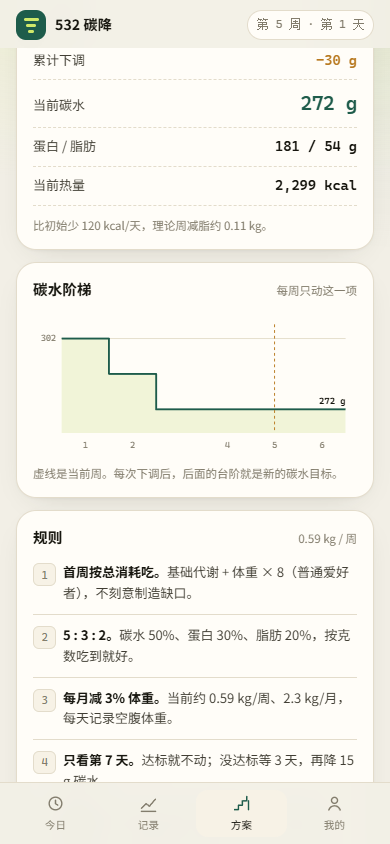
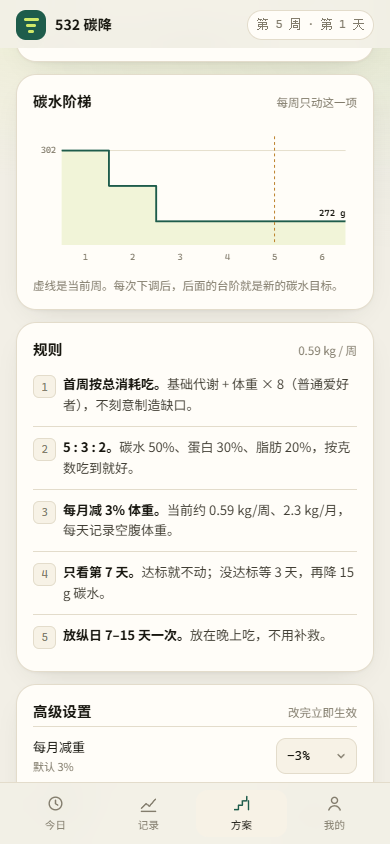
今日页显示已摄入热量与还剩余额；修复方案页高级设置卡被截断

Changed region(s): [[0.0308, 0.0616, 0.9538, 0.7085], [0.0308, 0.7393, 0.9538, 0.9242], [0.0923, 0.6777, 0.1231, 0.7085]]

diff --git a/assets/app.js b/assets/app.js
@@ -217,6 +217,8 @@
     var last = C.latestWeight(state);
     var lastDays = last ? C.diffDaysKeys(last.date, todayKey) : null;
     var leftCarb = Math.max(0, Math.round(t.carb - tot.carb));
+    var eatenPct = t.kcal > 0 ? Math.min(100, (tot.kcal / t.kcal) * 100) : 0;
+    var overKcal = tot.kcal - t.kcal;
 
     var parts = [];
 
@@ -228,6 +230,13 @@
         '</div>' +
         '<p class="hero-label">今日摄入目标</p>' +
         '<div class="hero-num"><b>' + n0(t.kcal) + '</b><span>kcal</span></div>' +
+        '<div class="hero-intake' + (overKcal > 0.5 ? ' is-over' : '') + '">' +
+          '<div class="hero-track"><i style="width:' + eatenPct.toFixed(1) + '%"></i></div>' +
+          '<div class="hero-intake-text">' +
+            '<span>已摄入 <b>' + n0(tot.kcal) + '</b> kcal</span>' +
+            '<span>' + (overKcal > 0.5 ? '超出 <b>' + n0(overKcal) + '</b> kcal' : '还可吃 <b>' + n0(-overKcal) + '</b> kcal') + '</span>' +
+          '</div>' +
+        '</div>' +
         '<div class="hero-macros">' +
           '<div><span>碳水' + (t.cut ? ' −' + t.cut + 'g' : '') + '</span><b>' + t.carb + '</b><i>g</i></div>' +
           '<div><span>蛋白</span><b>' + t.protein + '</b><i>g</i></div>' +
@@ -252,7 +261,7 @@
 
     parts.push(
       '<section class="card">' +
-        '<div class="card-head"><h2>今日摄入</h2><span class="muted small">' + (entries.length ? entries.length + ' 项' : '还没记录') + '</span></div>' +
+        '<div class="card-head"><h2>今日摄入</h2><span class="muted small">' + (entries.length ? entries.length + ' 项 · ' + n0(tot.kcal) + ' kcal' : '还没记录') + '</span></div>' +
         macroRow('碳水', 'm-carb', tot.carb, t.carb) +
         macroRow('蛋白', 'm-pro', tot.protein, t.protein) +
         macroRow('脂肪', 'm-fat', tot.fat, t.fat) +
@@ -600,7 +609,7 @@
             }).join('') +
           '</select>' +
         '</div>' +
-        '<div class="setting stack">' +
+        '<div class="setting stacked">' +
           '<div class="label">手动总消耗<small>有手表 / 体测数据时填，留空用公式</small></div>' +
           '<form class="mini-form" data-form="override">' +
             '<label class="input-wrap"><input name="kcal" type="number" inputmode="numeric" min="800" max="6000" step="10" value="' + (plan.overrideKcal || '') + '" placeholder="' + plan.tdee + '" aria-label="手动总消耗"><span class="suffix">kcal</span></label>' +
@@ -657,8 +666,9 @@
     var nowX = (L + dx * (nowWeek - 1) + dx / 2).toFixed(1);
     svg += '<line class="now-line" x1="' + nowX + '" y1="' + T + '" x2="' + nowX + '" y2="' + (H - B) + '"/>';
 
+    var showAll = totalWeeks <= 8;
     for (var k = 0; k < totalWeeks; k++) {
-      if (k === 0 || k === nowWeek - 1 || (k + 1) % 2 === 0) {
+      if (showAll || k === 0 || k === nowWeek - 1 || (k + 1) % 2 === 0) {
         svg += '<text x="' + (L + dx * k + dx / 2).toFixed(1) + '" y="' + (H - 6) + '" text-anchor="middle">' + (k + 1) + '</text>';
       }
     }

diff --git a/assets/app.css b/assets/app.css
@@ -501,6 +501,15 @@ input, select { font: inherit; color: inherit; }
 }
 .hero-num span { font-size: 12px; opacity: 0.7; }
 
+.hero-intake { margin-top: 10px; position: relative; z-index: 1; }
+.hero-track { height: 6px; border-radius: 99px; background: rgba(255, 255, 255, 0.18); overflow: hidden; }
+.hero-track i { display: block; height: 100%; border-radius: 99px; background: var(--lime); transition: width 0.3s ease; }
+.hero-intake-text { display: flex; justify-content: space-between; gap: 10px; margin-top: 7px; font-size: 11.5px; opacity: 0.86; }
+.hero-intake-text b { font-family: var(--mono); font-weight: 600; }
+.hero-intake.is-over .hero-track i { background: #F0B65A; }
+.hero-intake.is-over .hero-intake-text { color: #FFD79A; }
+.hero-intake.is-over .hero-intake-text b { color: #FFD79A; }
+
 .hero-macros {
   display: grid;
   grid-template-columns: repeat(3, 1fr);
@@ -794,10 +803,10 @@ input, select { font: inherit; color: inherit; }
 .setting:first-of-type { border-top: 0; margin-top: 4px; }
 .setting .label { display: flex; flex-direction: column; gap: 1px; font-size: 13px; }
 .setting .label small { font-size: 11px; color: var(--muted); }
-.setting.stack { display: block; }
-.setting.stack .label { margin-bottom: 8px; }
-.setting.stack .mini-form { display: flex; gap: 8px; align-items: center; }
-.setting.stack .mini-form .input-wrap { flex: 1; min-width: 0; }
+.setting.stacked { display: block; }
+.setting.stacked .label { margin-bottom: 8px; }
+.setting.stacked .mini-form { display: flex; gap: 8px; align-items: center; }
+.setting.stacked .mini-form .input-wrap { flex: 1; min-width: 0; }
 
 .select {
   height: 36px;

diff --git a/sw.js b/sw.js
@@ -2,14 +2,17 @@
  * 目标：离线也能记录；发版时更新能自然生效。
  * - 导航请求：网络优先，失败回落到缓存的 index.html
  * - 静态资源：缓存优先 + 后台更新（stale-while-revalidate）
+ *
+ * 发版：把下面 V 加 1，并同步改 index.html 里三处 ?v=（app.css / core.js / app.js）。
  */
-var CACHE = 'carb532-v5';
+var V = '7';
+var CACHE = 'carb532-v' + V;
 var SHELL = [
   './',
   './index.html',
-  './assets/app.css',
-  './assets/app.js',
-  './assets/core.js',
+  './assets/app.css?v=' + V,
+  './assets/app.js?v=' + V,
+  './assets/core.js?v=' + V,
   './manifest.webmanifest',
   './assets/icons/favicon-32.png',
   './assets/icons/icon-192.png',

diff --git a/index.html b/index.html
@@ -16,7 +16,7 @@
 <meta name="mobile-web-app-capable" content="yes">
 <meta name="apple-mobile-web-app-status-bar-style" content="default">
 <meta name="apple-mobile-web-app-title" content="532 碳降">
-<link rel="stylesheet" href="assets/app.css">
+<link rel="stylesheet" href="assets/app.css?v=7">
 </head>
 <body>
 <div class="page">
@@ -173,7 +173,7 @@
 
 <noscript><p class="noscript">这个应用需要开启 JavaScript 才能计算方案。</p></noscript>
 
-<script src="assets/core.js"></script>
-<script src="assets/app.js"></script>
+<script src="assets/core.js?v=7"></script>
+<script src="assets/app.js?v=7"></script>
 </body>
 </html>

diff --git a/README.md b/README.md
@@ -43,7 +43,7 @@
 532/
 ├─ index.html              单页入口（首屏设置 + 主框架）
 ├─ manifest.webmanifest    PWA 清单
-├─ sw.js                   离线缓存（改静态资源后把 CACHE 版本号 +1）
+├─ sw.js                   离线缓存（发版时把 V 加 1，见下方「改完代码发版」）
 ├─ assets/
 │  ├─ core.js              纯逻辑（UMD，无 DOM）：计算、校验、周结算、调碳
 │  ├─ app.js               UI 与本地存储
@@ -101,6 +101,8 @@ git push -u origin main
 **自己的服务器**：把目录丢进任意静态目录即可（Nginx `root` 指向它）。`sw.js` 必须以根路径可访问，否则离线功能不生效。
 
 部署后第一次用 https 打开，点「我的 → 数据 → 安装到主屏」或浏览器菜单里的「添加到主屏幕」即可当 App 用。
+
+**改完代码发版**：`assets/` 或 `index.html` 有改动时，把 `sw.js` 顶部的 `var V = '7'` 加 1，并把 `index.html` 里三处 `?v=7`（app.css / core.js / app.js）改成同一个数字，否则已装到手机上的旧版本会继续读缓存。只改 README 或截图不用动版本号。
 
 ---
 
